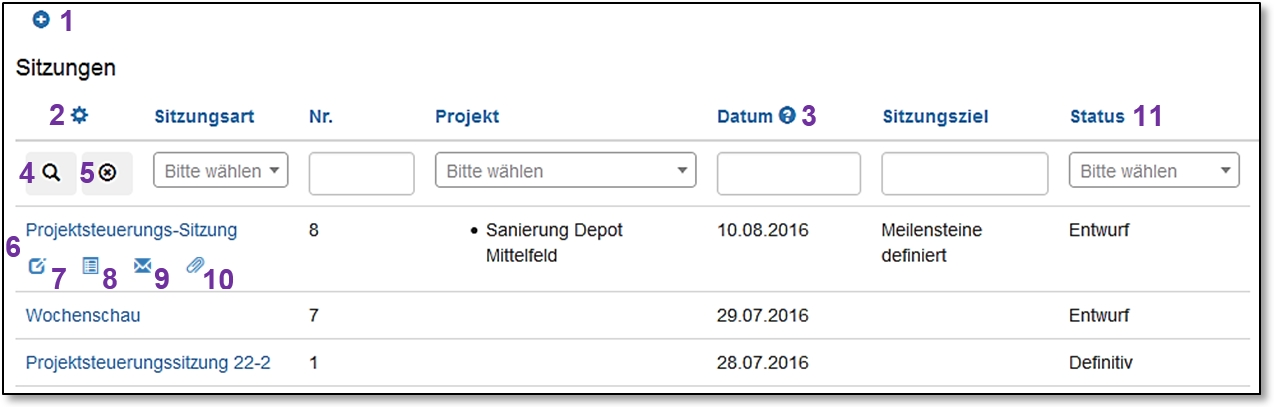
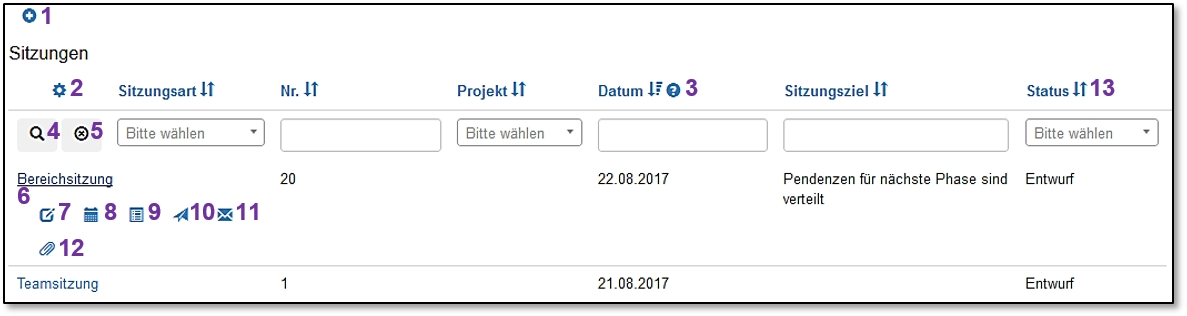
[german]
Anpassungen für Version 2.7
- Handbuchexpor
- Kalendereinladungen per .ics-File in Outlook importieren
- Legende Sitzungswesen ergänzen

diff --git a/german/chapters/05_Sitzungswesen/05_Sitzungswesen.tex b/german/chapters/05_Sitzungswesen/05_Sitzungswesen.tex
@@ -55,8 +55,20 @@ Die Sitzungsübersicht gibt einen guten Überblick über die laufenden oder verg
 Mit dem Filter haben Sie die Möglichkeit nach Sitzungen zu suchen. Geben Sie Schlagwörter ein oder wählen Sie bei einem Dropdown-Menü (z.B. Projekt) einen gewünschten Eintrag aus. Nach der Filtereingabe klicken Sie auf das Lupensymbol \includegraphics[height=12pt]{/Icons/Lupe_s.jpg} \col{(4)}. Alle gefundenen Einträge werden angezeigt. Mit dem Kreuzchen \includegraphics[height=12pt]{/Icons/FilterLoeschen.jpg} \col{(5)} können Sie alle Filtereingaben löschen. \\
 Mit Klick auf die Spaltenbezeichnung können Sie die Ansicht sortieren (auf- oder absteigend).
 
-Wenn Sie auf einen Sitzungstitel (blau) klicken, öffnen sich unterhalb weitere Optionen \col{(6)}: Sie können auf diese Weise eine Sitzungseinladung bearbeiten \includegraphics[height=12pt]{/Icons/bearbeiten.jpg} \col{(7)}, das Protokoll bearbeiten \includegraphics[height=12pt]{/Icons/Listensymbol.jpg} \col{(8)}, die Sitzungseinladung per PDF öffnen oder speichern \includegraphics[height=12pt]{/Icons/Briefsymbol.jpg} \col{(9)} oder falls der Sitzungseinladung ein Dokument angehängt wurde, können Sie dieses mittels Büroklammer-Symbol \includegraphics[height=12pt]{/Icons/Bueroklammer.jpg} \col{(10)} downloaden. \\
-Die Status-Spalte \col{(11)} zeigt an, ob ein Protokoll archiviert wurde und somit 'Definitiv' ist. Trägt eine Sitzung diesen Status sind obige Optionen nicht mehr möglich. Mittels dem Blattsymbol \includegraphics[height=12pt]{/Icons/Blattsymbol.jpg} kann das definitive Protokoll als PDF geöffnet oder gespeichert werden.
+Wenn Sie auf einen Sitzungstitel (blau) klicken, öffnen sich unterhalb weitere Optionen \col{(6)}: Sie können auf diese Weise
+
+\begin{compactitem}
+	\item eine Sitzungseinladung bearbeiten \includegraphics[height=12pt]{/Icons/bearbeiten.jpg} \col{(7)},
+	\item die Termineinladung direkt als .ics-Datei z.B. in den Outlook-Kalender importieren \includegraphics[height=12pt]{/Icons/Kalenderimport.jpg} \col{(8)},
+	\item das Protokoll bearbeiten \includegraphics[height=12pt]{/Icons/Listensymbol.jpg} \col{(9)},
+	\item die Sitzungseinladung mit den dazugehörigen Beilagen per Email versenden \includegraphics[height=12pt]{/Icons/Versandsymbol.jpg} \col{(10)},
+	\item die Sitzungseinladung per PDF öffnen oder speichern \includegraphics[height=12pt]{/Icons/Briefsymbol.jpg} \col{(11)} oder
+	\item falls der Sitzungseinladung ein Dokument angehängt wurde, können Sie dieses mittels Büroklammer-Symbol \includegraphics[height=12pt]{/Icons/Bueroklammer.jpg} \col{(12)} downloaden.
+	\end{compactitem}
+
+\vspace{\baselineskip}
+
+Die Status-Spalte \col{(13)} zeigt an, ob ein Protokoll archiviert wurde und somit 'Definitiv' ist. Trägt eine Sitzung diesen Status sind obige Optionen nicht mehr möglich. Mittels dem Blattsymbol \includegraphics[height=12pt]{/Icons/Blattsymbol.jpg} kann das definitive Protokoll als PDF geöffnet oder gespeichert werden.
 
 \subsection{Zu einer neuen Sitzung einladen}
 \label{bkm:Ref434828480}
@@ -236,7 +248,7 @@ Alle Einträge, welche mit den Such-Begriffen übereinstimmen, werden angezeigt.
 
 \vspace{\baselineskip}
 
-\textbf{Legende für die Bearbeitung von Sitzungseinträgen}
+\textbf{Legende für die Bearbeitung von Sitzungseinträgen:}
 
 \vspace{\baselineskip}
 
@@ -246,9 +258,13 @@ Alle Einträge, welche mit den Such-Begriffen übereinstimmen, werden angezeigt.
 \hline
 \raisebox{-.25\totalheight}{\includegraphics[height=12pt]{/Icons/Bearbeiten.jpg}} & Bearbeiten der Sitzungseinladung, siehe Kapitel \ref{bkm:Ref434828480} \\
 \hline
-\raisebox{-.25\totalheight}{\includegraphics[height=12pt]{/Icons/Listensymbol.jpg}} & Protokoll bearbeiten \\
+\raisebox{-.25\totalheight}{\includegraphics[height=12pt]{/Icons/Kalenderimport.jpg}} & Die Kalendereinladung direkt als .ics-Datei z.B. in den Outlook-Kalender importieren \\
 \hline
-\raisebox{-.25\totalheight}{\includegraphics[height=12pt]{/Icons/Briefsymbol.jpg}} & Sitzungseinladung als PDF öffnen (Zum Versand per Email oder Post) \\
+\raisebox{-.25\totalheight}{\includegraphics[height=12pt]{/Icons/Listensymbol.jpg}} & Das Protokoll bearbeiten \\
+\hline
+\raisebox{-.25\totalheight}{\includegraphics[height=12pt]{/Icons/Versandsymbol.jpg}} & Die Sitzungseinladung mit den dazugehörigen Beilagen per Email versenden \\
+\hline
+\raisebox{-.25\totalheight}{\includegraphics[height=12pt]{/Icons/Briefsymbol.jpg}} & Die Sitzungseinladung als PDF öffnen (Zum Versand per Email oder Post) \\
 \hline
 \raisebox{-.25\totalheight}{\includegraphics[height=12pt]{/Icons/Bueroklammer.jpg}} & Bei dieser Sitzungseinladung wurden Beilagen angehängt \\
 \hline
@@ -259,15 +275,15 @@ Alle Einträge, welche mit den Such-Begriffen übereinstimmen, werden angezeigt.
 Suchen Sie in der Liste die betreffende Sitzung und klicken Sie auf das Listensymbol \includegraphics[height=12pt]{/Icons/Listensymbol.jpg} rechts. Es erscheint die Ansicht 'Protokoll bearbeiten' mit der Maske für das Erfassen des Protokolls.
 
 \begin{figure}[H]
-\center{\includegraphics[width=0.4\linewidth]{../chapters/05_Sitzungswesen/pictures/5-2-1_Uebernehmen_top.jpg}}
-% \caption{Das Menü in CUBE PA}
+\vspace{-20pt}  
+\center{\includegraphics[width=1\linewidth]{../chapters/05_Sitzungswesen/pictures/5-2-1_ProtokollBearbeiten.jpg}}
+\caption{Protokoll bearbeiten}
 % \label{fig:speciation}
 \end{figure}
 
 \begin{figure}[H]
-\vspace{-20pt}  
-\center{\includegraphics[width=1\linewidth]{../chapters/05_Sitzungswesen/pictures/5-2-1_ProtokollBearbeiten.jpg}}
-\caption{Protokoll bearbeiten}
+\center{\includegraphics[width=0.4\linewidth]{../chapters/05_Sitzungswesen/pictures/5-2-1_Uebernehmen_top.jpg}}
+% \caption{Das Menü in CUBE PA}
 % \label{fig:speciation}
 \end{figure}
 

diff --git a/german/chapters/09_Qualitaetsmanagement/09_Qualitaetsmanagement.tex b/german/chapters/09_Qualitaetsmanagement/09_Qualitaetsmanagement.tex
@@ -148,7 +148,8 @@ Mit dem Plussymbol \includegraphics[height=12pt]{/Icons/Plussymbol.jpg} \col{(1)
 % \label{fig:speciation}
 \end{figure}
 
-Mit dem Listensymbol \includegraphics[height=12pt]{/Icons/Listensymbol_zurueck.jpg} \col{(1)} können Sie wieder auf die Übersicht der Handbücher zurückkehren. Sie sehen nun das Handbuch in der Übersicht. Mit dem Stiftsymbol \includegraphics[height=12pt]{/Icons/Stift.jpg} \col{(2)} können Sie jeweils den Eintrag bearbeiten und mit dem Plussymbol \includegraphics[height=12pt]{/Icons/Plussymbol.jpg} \col{(3)} ein neues Kapitel anlegen. Wenn Sie auf einen blauen Titel klicken \col{(4)} wird dieses Kapitel geöffnet. Soll die Reihenfolge geändert werden, packen Sie die vertikalen Pfeile \includegraphics[height=12pt]{/Icons/VertPfeile.jpg} \col{(5)} vor einem Kapitel mit der linken Maustaste (klicken und gedrückt halten) und schieben diese nach oben oder unten an die gewünschte Position.
+Mit dem Listensymbol \includegraphics[height=12pt]{/Icons/Listensymbol_zurueck.jpg} \col{(1)} können Sie wieder auf die Übersicht der Handbücher zurückkehren. Sie sehen nun das Handbuch in der Übersicht. Mit dem Stiftsymbol \includegraphics[height=12pt]{/Icons/Stift.jpg} \col{(2)} können Sie jeweils den Eintrag bearbeiten und mit dem Plussymbol \includegraphics[height=12pt]{/Icons/Plussymbol.jpg} \col{(3)} ein neues Kapitel anlegen. Wenn Sie auf einen blauen Titel klicken \col{(4)} wird dieses Kapitel geöffnet. Soll die Reihenfolge geändert werden, packen Sie die vertikalen Pfeile \includegraphics[height=12pt]{/Icons/VertPfeile.jpg} \col{(5)} vor einem Kapitel mit der linken Maustaste (klicken und gedrückt halten) und schieben diese nach oben oder unten an die gewünschte Position. \\
+Sie haben die Möglichkeit, das ganze Handbuch als pdf-Dokument zu speichern. Klicken Sie dazu auf das Download-Symbol \includegraphics[height=12pt]{/Icons/Download.jpg} \col{(6)}. Beim Speichervorgang wird ein zip-Ordner angelegt, welcher das pdf-Handbuch und zusätzlich die im Dokument enthaltenen, resp. eingebundenen Dokumente enthält.
 
 \subsubsection{Ein bestehendes Handbuch ändern}
 

diff --git a/german/CUBEPA_Handbuch.tex b/german/CUBEPA_Handbuch.tex
@@ -83,7 +83,7 @@
 \HRule \\[1.5cm]
 
 \textsf{\Large Benutzerhandbuch}\\[0.5cm] % Major heading such as course name
-\textsf{\large Version 2.7 / 22.09.2017}\\[0.5cm] % Minor heading such as course title
+\textsf{\large Version 2.7 / 25.09.2017}\\[0.5cm] % Minor heading such as course title
 
 
 \pagebreak
@@ -95,13 +95,13 @@
 \begin{tabular}{lp{12cm}}
 Auftragsnummer & BE.N.\\
 Auftraggeber & .\\
-Datum & 22.09.2017\\
+Datum & 25.09.2017\\
 Version & 2.7\\
 Autoren & Dieter Schopfer, Benjamin Nyffenegger, Adrian Johner, Markus Schafroth, Simon Heimberg\\
 Freigabe & Markus Schafroth\\
 Verteilen & .\\
 Datei & .\\
-Seitenzahl & 163\\
+Seitenzahl & 164\\
 Copyright & \copyright{ Emch+Berger AG Bern}\\
 \end{tabular}
 
